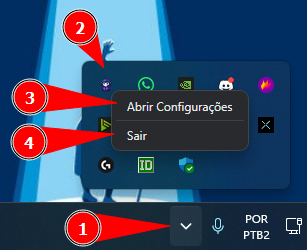
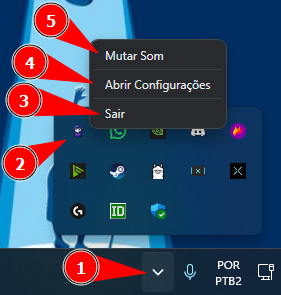
✨ feat(readme, config): enhance notification sound features and add language support
- Update README to reflect new notification sound features including test preview, volume control, and quick mute from System Tray.
- Introduce language preference configuration with support for English and Portuguese.
- Enhance configuration UI with collapsible sections and improved user interactions.
- Update System Tray integration for better accessibility to settings and sound controls.

diff --git a/src/main/index.ts b/src/main/index.ts
@@ -9,12 +9,36 @@ import { TwitchChatSource } from './chatSource';
 import { setupConfigIPC, getCurrentConfig } from './ipcHandlers';
 import { createConfigWindow, isConfigWindowOpen, focusConfigWindow } from './configWindow';
 import type { ChatMessage } from '../shared/types';
-import type { AppConfig } from '../config/types';
+import type { AppConfig, Language } from '../config/types';
 
 let mainWindow: BrowserWindow | null = null;
 let chatSource: TwitchChatSource | null = null;
 let tray: Tray | null = null;
 let isSoundMuted = false;
+let currentLanguage: Language = 'en';
+
+/**
+ * Translations for the System Tray menu.
+ */
+const TRAY_TRANSLATIONS: Record<Language, {
+  muteSound: string;
+  unmuteSound: string;
+  openSettings: string;
+  quit: string;
+}> = {
+  en: {
+    muteSound: 'Mute Sound',
+    unmuteSound: 'Unmute Sound',
+    openSettings: 'Open Settings',
+    quit: 'Quit',
+  },
+  pt: {
+    muteSound: 'Mutar Som',
+    unmuteSound: 'Desmutar Som',
+    openSettings: 'Abrir Configurações',
+    quit: 'Sair',
+  },
+};
 
 const isDev = !app.isPackaged || process.env.NODE_ENV === 'development';
 const diagnosticsEnabled = process.env.DIAGNOSTICS === '1';
@@ -24,24 +48,26 @@ const devtoolsEnabled = isDev && process.env.DEVTOOLS === '1';
 setupConfigIPC(diagnosticsEnabled);
 
 /**
- * Update the tray context menu (called when mute state changes).
+ * Update the tray context menu (called when mute state or language changes).
  */
 const updateTrayMenu = (): void => {
   if (!tray) return;
 
+  const t = TRAY_TRANSLATIONS[currentLanguage];
+
   const contextMenu = Menu.buildFromTemplate([
     {
-      label: isSoundMuted ? 'Desmutar Som' : 'Mutar Som',
+      label: isSoundMuted ? t.unmuteSound : t.muteSound,
       click: () => toggleMute(),
     },
     { type: 'separator' },
     {
-      label: 'Abrir Configurações',
+      label: t.openSettings,
       click: () => showConfigWindow(),
     },
     { type: 'separator' },
     {
-      label: 'Sair',
+      label: t.quit,
       click: () => app.quit(),
     },
   ]);
@@ -90,6 +116,10 @@ const createTray = (): void => {
  * Create the overlay window with the given configuration.
  */
 const createOverlayWindow = (config: AppConfig): void => {
+  // Update current language from config and refresh tray menu
+  currentLanguage = config.language || 'en';
+  updateTrayMenu();
+
   // Debug overlay only if explicitly enabled in config or via env var
   const debugOverlay = config.overlayDebug || process.env.OVERLAY_DEBUG === '1';
 

diff --git a/src/renderer/config/scripts/configApp.ts b/src/renderer/config/scripts/configApp.ts
@@ -217,25 +217,15 @@ const TRANSLATIONS: Record<Language, Translations> = {
 };
 
 /**
- * Get the stored language preference or detect from browser.
+ * Get the initial language preference from browser settings.
+ * Used only on first run before config is loaded.
  */
-function getStoredLanguage(): Language {
-  const stored = localStorage.getItem('configLanguage');
-  if (stored === 'en' || stored === 'pt') {
-    return stored;
-  }
+function getInitialLanguage(): Language {
   const browserLang = navigator.language.toLowerCase();
   if (browserLang.startsWith('pt')) {
     return 'pt';
   }
   return 'en';
-}
-
-/**
- * Store language preference.
- */
-function setStoredLanguage(lang: Language): void {
-  localStorage.setItem('configLanguage', lang);
 }
 
 /**
@@ -252,7 +242,7 @@ class ConfigApp {
   private errors: Record<string, string> = {};
   private isDirty = false;
   private isFirstRun = false;
-  private currentLang: Language = getStoredLanguage();
+  private currentLang: Language = getInitialLanguage();
   private t: Translations = TRANSLATIONS[this.currentLang];
 
   /**
@@ -286,6 +276,14 @@ class ConfigApp {
       this.sources = loadResult.sources;
       this.originalConfig = { ...loadResult.config };
       this.isFirstRun = loadResult.isFirstRun;
+
+      // Apply language from loaded config (if different from initial detection)
+      if (this.config.language && this.config.language !== this.currentLang) {
+        this.currentLang = this.config.language as Language;
+        this.t = TRANSLATIONS[this.currentLang];
+        this.applyStaticTranslations();
+        this.updateLanguageToggle();
+      }
 
       if (loadResult.loadError) {
         this.showAlert('warning', loadResult.loadError);
@@ -362,7 +360,10 @@ class ConfigApp {
 
     this.currentLang = lang;
     this.t = TRANSLATIONS[lang];
-    setStoredLanguage(lang);
+
+    // Update config with new language preference
+    this.config.language = lang;
+    this.isDirty = true;
 
     // Re-apply translations
     this.applyStaticTranslations();

diff --git a/src/config/schema.ts b/src/config/schema.ts
@@ -51,6 +51,26 @@ export const SECTION_META: Record<ConfigSection, { title: string; description: s
  * Complete configuration schema with validation and UI metadata.
  */
 export const CONFIG_SCHEMA: Record<keyof AppConfig, ConfigFieldMeta<AppConfig[keyof AppConfig]>> = {
+  language: {
+    key: 'language',
+    label: 'Language',
+    description: 'UI language preference',
+    type: 'select',
+    default: 'en',
+    section: 'basic',
+    options: [
+      { value: 'en', label: 'English' },
+      { value: 'pt', label: 'Português' },
+    ],
+    validate: (value: unknown): string | null => {
+      const allowed = ['en', 'pt'];
+      if (!allowed.includes(value as string)) {
+        return 'Invalid language';
+      }
+      return null;
+    },
+  },
+
   twitchChatUrl: {
     key: 'twitchChatUrl',
     label: 'Twitch Chat URL',

diff --git a/src/config/types.ts b/src/config/types.ts
@@ -15,10 +15,17 @@ export type ConfigSource = 'default' | 'saved' | 'env' | 'cli';
 export type ConfigSection = 'basic' | 'overlay' | 'sound' | 'performance' | 'advanced';
 
 /**
+ * Supported UI languages.
+ */
+export type Language = 'en' | 'pt';
+
+/**
  * Full application configuration.
  * Extends OverlayConfig with additional fields.
  */
 export interface AppConfig {
+  /** UI language preference. */
+  language: Language;
   /** Twitch chat popout URL (required). */
   twitchChatUrl: string;
   /** Duration in seconds to display each message. */

diff --git a/README.md b/README.md
@@ -34,11 +34,12 @@
 
 - 🎭 **Animated Avatar** — Cute character with lip-sync, blinking, and expressions powered by GSAP
 - 💬 **Chat Bubbles** — Clean speech bubbles with smooth enter/exit animations
-- 🔔 **Notification Sound** — Customizable audio alert when new messages appear (enabled by default)
+- 🔔 **Notification Sound** — Customizable audio alert with test preview, volume control, and quick mute from System Tray
 - 🎯 **Transparent Overlay** — Click-through window that sits on top of your game/content
 - ⚡ **Lightweight** — Minimal resource usage, optimized for streaming
 - 🎨 **Customizable Position** — Place the overlay in any corner with adjustable margins
-- 🔧 **Easy Configuration** — Built-in wizard with presets for quick setup
+- 🔧 **Easy Configuration** — Built-in wizard with presets, collapsible sections, and intuitive controls
+- 🖥 **System Tray Integration** — Quick access to settings and sound mute toggle
 - 🌍 **Multilingual** — English and Portuguese interface
 
 ## 📋 MVP Scope
@@ -48,9 +49,10 @@
 | Twitch popout chat DOM observation | Chatbot / LLM integration |
 | Message queue with timed display | Moderation features |
 | Animated avatar with speech bubbles | Message storage / history |
-| Notification sound on new messages | TTS (text-to-speech) support |
-| Graceful error handling | Complex filtering rules |
-| Configuration wizard | |
+| Notification sound with test/mute | TTS (text-to-speech) support |
+| System Tray with quick controls | Complex filtering rules |
+| Configuration wizard with collapsible UI | |
+| Graceful error handling | |
 
 ## 🚀 Getting Started
 
@@ -101,6 +103,11 @@ The built-in wizard provides an easy way to configure the overlay:
 2. **Presets** — Quick setup options for different stream styles
 3. **Position & Timing** — Customize where and how long messages appear
 
+**UI Features:**
+- **Collapsible sections** — Click on section headers (Overlay, Sound, Performance, Advanced) to expand/collapse
+- **Logo link** — Click the logo to visit the developer's GitHub profile
+- **Dark theme** — Easy on the eyes with a modern interface
+
 ### 🖥 System Tray
 
 After starting the overlay, the app remains accessible via the System Tray:
@@ -111,7 +118,10 @@ After starting the overlay, the app remains accessible via the System Tray:
 *Right-click the tray icon to access settings or quit*
 </div>
 
-- **Right-click** — Opens menu with "Abrir Configurações" (Settings) and "Sair" (Quit)
+- **Right-click** — Opens menu with:
+  - **Mutar/Desmutar Som** — Toggle notification sound on/off
+  - **Abrir Configurações** — Opens configuration window
+  - **Sair** — Quit the application
 - **Double-click** — Opens configuration window directly
 
 > 💡 **Note:** The overlay window is transparent and doesn't appear in the taskbar, so the System Tray is your main way to interact with the app while it's running.
@@ -122,13 +132,17 @@ A notification sound plays whenever a new chat message appears. This feature is 
 
 - **Enabled by default** — Sound plays automatically when messages appear
 - **Customizable volume** — Adjust from 0-100% in settings
-- **Custom sounds** — Add your own audio files to `src/renderer/assets/sounds/`
-- **Supported formats** — `.mp3`, `.wav`, `.ogg`, `.m4a`
+- **Custom sounds** — Select any audio file from your computer via the file browser
+- **Supported formats** — `.mp3`, `.wav`, `.ogg`, `.m4a`, `.flac`, `.aac`
+- **Audio output device** — Select which audio device plays the notification
+- **Test button** — Preview the sound before starting the overlay
+- **Quick mute** — Toggle sound on/off from the System Tray without opening settings
 
 To use a custom sound:
-1. Place your audio file in `src/renderer/assets/sounds/`
-2. Enter the filename in the "Notification Sound" field (e.g., `mysound.mp3`)
-3. Adjust volume as needed
+1. Click "Browse..." in the Sound section of the configuration
+2. Select your audio file from any location on your computer
+3. Adjust volume and test with the "Test" button
+4. Use the System Tray to quickly mute/unmute during streams
 
 ### 🔧 Environment Variables
 
@@ -149,8 +163,9 @@ For advanced users, all settings can be configured via environment variables:
 | `DIAGNOSTICS` | `0` | 🔍 Enable diagnostic logs (`1` to enable) |
 | `OVERLAY_DEBUG` | `0` | 🐛 Show debug UI (`1` to enable) |
 | `NOTIFICATION_SOUND_ENABLED` | `1` | 🔔 Enable notification sound (`0` to disable) |
-| `NOTIFICATION_SOUND_FILE` | `notification.wav` | 🎵 Sound file name (in assets/sounds/) |
+| `NOTIFICATION_SOUND_FILE` | `notification.wav` | 🎵 Sound file path (full path or filename in assets/sounds/) |
 | `NOTIFICATION_SOUND_VOLUME` | `50` | 🔊 Volume level (0-100) |
+| `NOTIFICATION_SOUND_DEVICE` | — | 🎧 Audio output device ID (system default if empty) |
 
 ### 🎯 Presets
 
